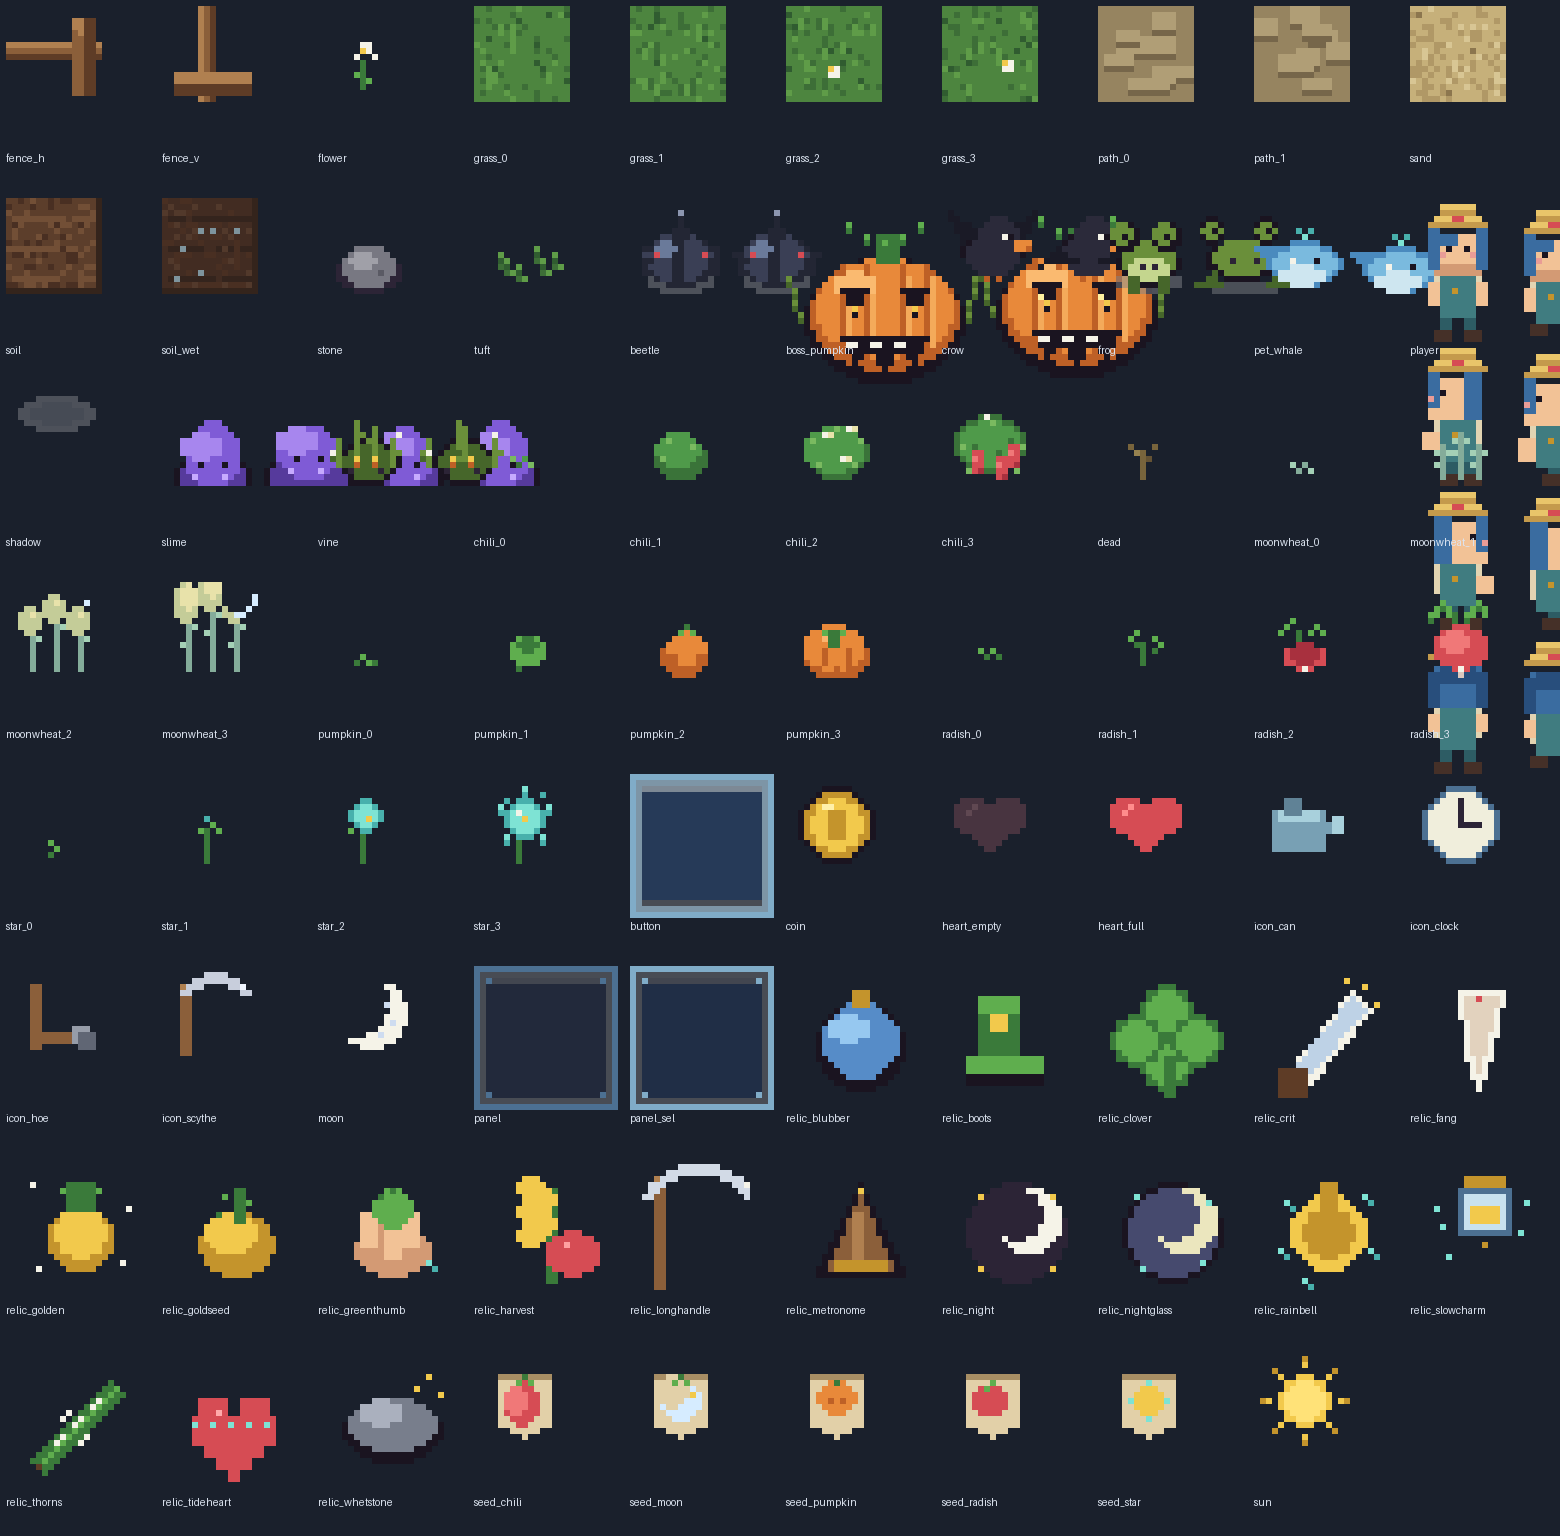
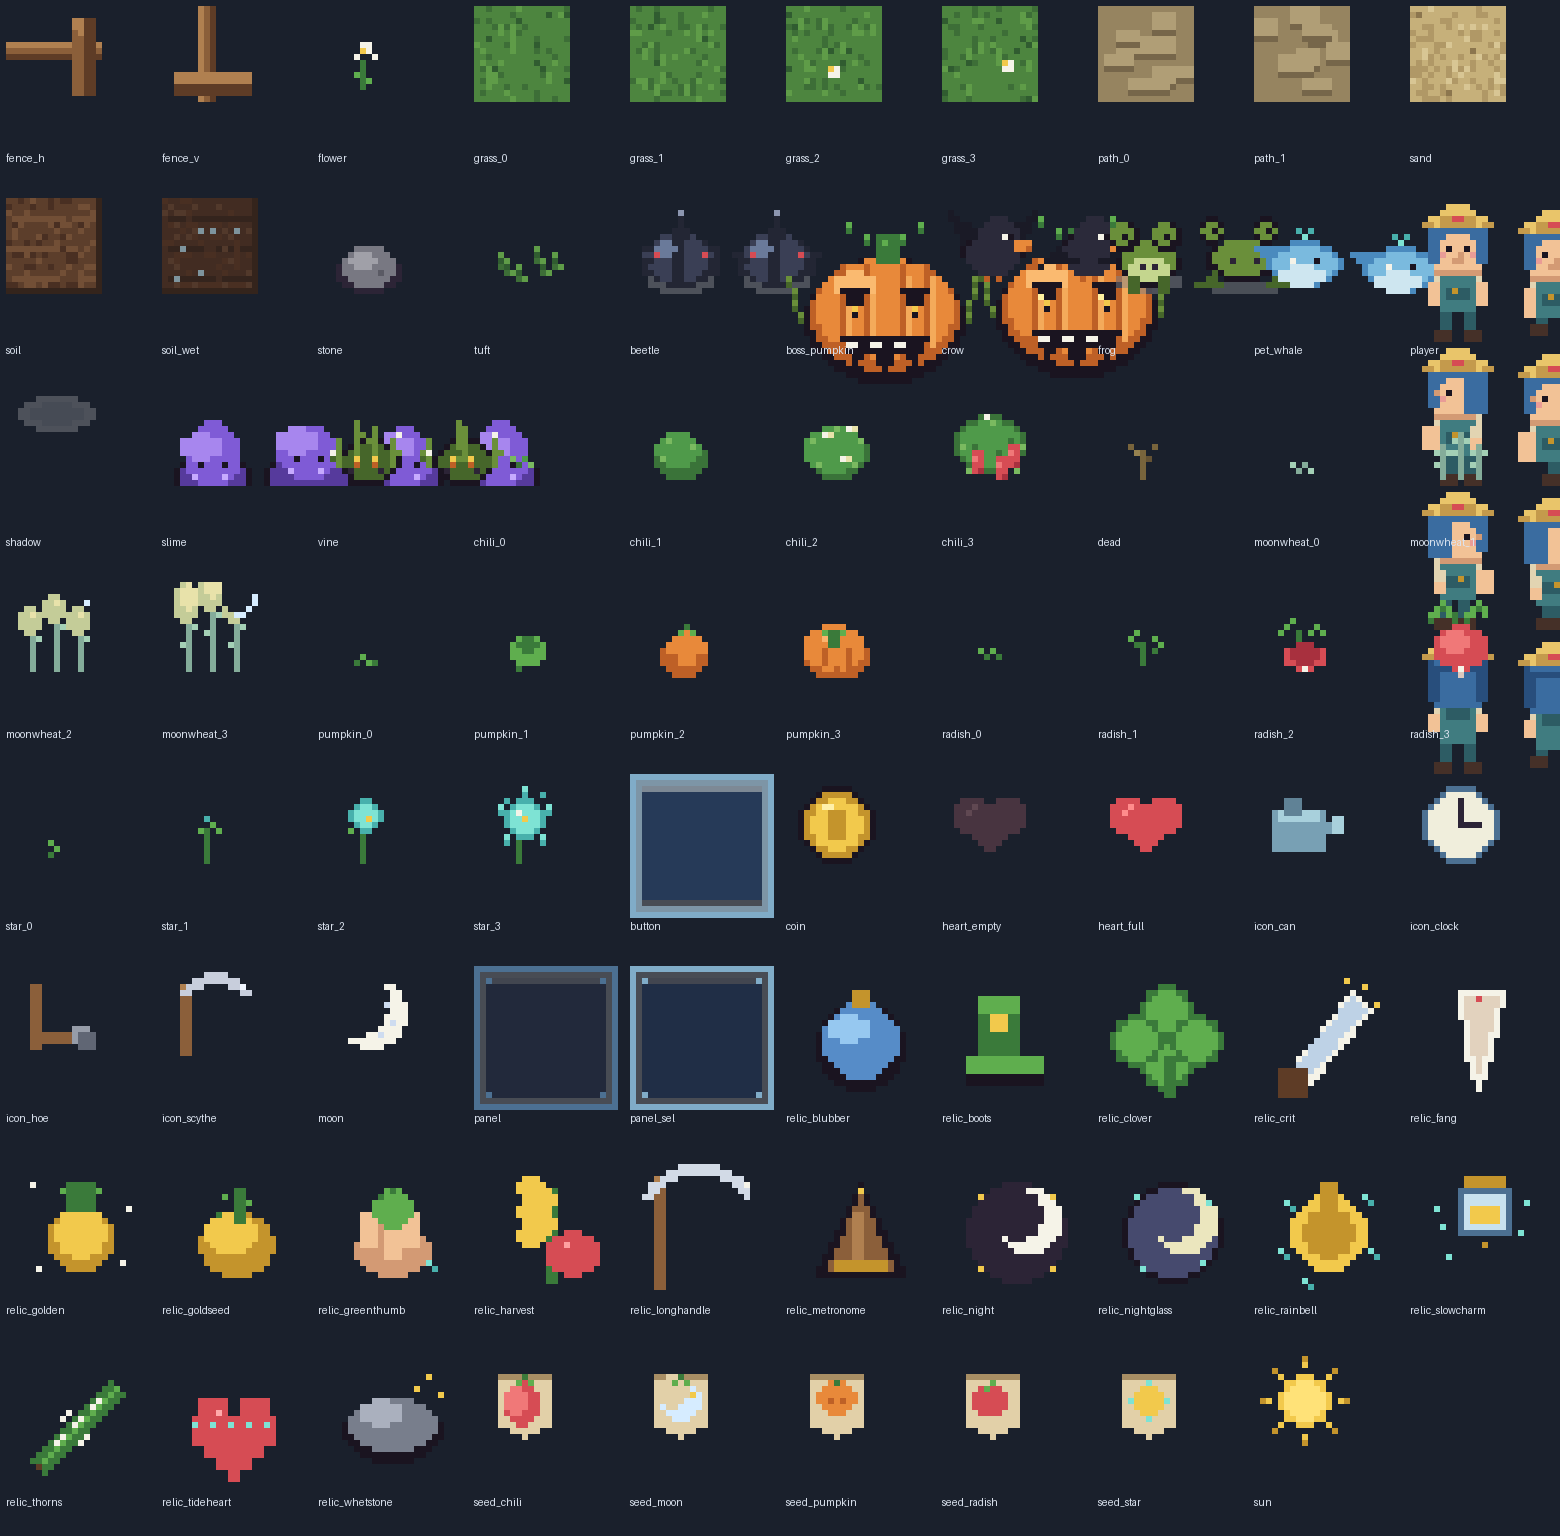
v2.4.1: redraw player, close hat/head gap

Changed region(s): [[0.8923, 0.125, 1.0, 0.5], [0.9231, 0.4375, 0.9538, 0.5], [0.8923, 0.4062, 0.9231, 0.4375]]

diff --git a/tools/gen_art.py b/tools/gen_art.py
@@ -267,12 +267,14 @@ def stone() -> Image.Image:
 # ---------------------------------------------------------------- player
 def player_frame(direction: int, step: int) -> Image.Image:
     """direction: 0 down, 1 left, 2 right, 3 up. step: 0..3."""
+    if direction == 2:
+        return player_frame(1, step).transpose(Image.FLIP_LEFT_RIGHT)
     im, d = new(16, 24)
     walk = step in (1, 3)
     swing = 1 if step == 1 else (-1 if step == 3 else 0)
     bob = 1 if walk else 0
-    # ground shadow is a separate sprite
-    # legs
+
+    # legs and boots (feet stay on the ground; only the torso bobs)
     if direction in (0, 3):
         left_dy = 1 if step == 1 else 0
         right_dy = 1 if step == 3 else 0
@@ -286,64 +288,82 @@ def player_frame(direction: int, step: int) -> Image.Image:
         box(d, 9 - lead, 19, 10 - lead, 22, C["overall2"])
         box(d, 5 + lead, 22, 7 + lead, 23, C["boot"])
         box(d, 9 - lead, 22, 11 - lead, 23, C["boot"])
-    # body
-    box(d, 5, 12 + bob, 10, 19 + bob, C["overall"])
-    box(d, 4, 13 + bob, 4, 17 + bob, C["shirt"])
-    box(d, 11, 13 + bob, 11, 17 + bob, C["shirt"])
-    # straps
+
+    # torso
+    body_top = 12 + bob
+    body_bottom = 18 + bob
+    box(d, 5, body_top, 10, body_bottom, C["overall"])
+    box(d, 4, body_top, 4, 14 + bob, C["shirt"])
+    box(d, 11, body_top, 11, 14 + bob, C["shirt"])
     if direction != 3:
-        px(d, 6, 12 + bob, C["overall2"])
-        px(d, 9, 12 + bob, C["overall2"])
+        px(d, 6, body_top, C["overall2"])
+        px(d, 9, body_top, C["overall2"])
+        box(d, 6, 15 + bob, 9, 16 + bob, C["overall2"])
         px(d, 7, 15 + bob, C["gold2"])
+    else:
+        box(d, 6, body_top, 9, 14 + bob, C["overall2"])
+
     # arms
     if direction == 0:
-        box(d, 3, 14 + bob, 4, 17 + bob, C["skin"])
-        box(d, 11, 14 + bob + swing, 12, 17 + bob + swing, C["skin"])
+        box(d, 3, 14 + bob, 4, 17 + bob + swing, C["skin"])
+        box(d, 11, 14 + bob, 12, 17 + bob - swing, C["skin"])
     elif direction == 1:
-        box(d, 2, 15 + bob, 4, 17 + bob + swing, C["skin"])
-    elif direction == 2:
-        box(d, 11, 15 + bob, 13, 17 + bob + swing, C["skin"])
+        box(d, 2, 14 + bob, 4, 17 + bob + swing, C["skin"])
+        box(d, 10, 14 + bob, 11, 16 + bob, C["shirt"])
+        box(d, 10, 16 + bob, 11, 17 + bob, C["skin"])
     else:
         box(d, 3, 14 + bob, 4, 16 + bob, C["skin"])
         box(d, 11, 14 + bob, 12, 16 + bob, C["skin"])
-    # head
-    head_y = 4 + bob
+
+    # head: hair row under the brim is deliberate; it closes the old gap
+    hair_top = 5 + bob
+    skin_top = 6 + bob
+    chin = 12 + bob
     if direction == 0:
-        box(d, 4, head_y + 2, 11, head_y + 8, C["skin"])
-        box(d, 4, head_y + 7, 11, head_y + 8, C["skin2"])
-        # hair fringe + side locks
-        box(d, 3, head_y + 1, 4, head_y + 7, C["hair"])
-        box(d, 11, head_y + 1, 12, head_y + 7, C["hair"])
-        box(d, 4, head_y + 2, 7, head_y + 3, C["hair"])
-        px(d, 6, head_y + 4, C["ink"])
-        px(d, 9, head_y + 4, C["ink"])
-        px(d, 5, head_y + 5, (233, 156, 150, 255))
-        px(d, 10, head_y + 5, (233, 156, 150, 255))
-    elif direction == 3:
-        box(d, 4, head_y + 2, 11, head_y + 8, C["hair"])
-        box(d, 3, head_y + 3, 4, head_y + 8, C["hair2"])
-        box(d, 11, head_y + 3, 12, head_y + 8, C["hair2"])
-        box(d, 5, head_y + 2, 10, head_y + 4, C["hair2"])
+        box(d, 4, skin_top, 11, chin, C["skin"])
+        box(d, 4, chin, 11, chin, C["skin2"])
+        box(d, 3, hair_top, 4, 10 + bob, C["hair"])
+        box(d, 11, hair_top, 12, 10 + bob, C["hair"])
+        box(d, 4, hair_top, 11, hair_top, C["hair"])
+        px(d, 4, skin_top, C["hair"])
+        px(d, 5, skin_top, C["hair"])
+        px(d, 10, skin_top, C["hair"])
+        px(d, 11, skin_top, C["hair"])
+        px(d, 6, 8 + bob, C["ink"])
+        px(d, 9, 8 + bob, C["ink"])
+        px(d, 5, 9 + bob, (233, 156, 150, 255))
+        px(d, 10, 9 + bob, (233, 156, 150, 255))
+        px(d, 8, 9 + bob, C["skin2"])
+        box(d, 7, 10 + bob, 8, 10 + bob, C["skin2"])
     elif direction == 1:
-        box(d, 3, head_y + 2, 10, head_y + 8, C["skin"])
-        box(d, 9, head_y + 1, 11, head_y + 8, C["hair"])
-        box(d, 3, head_y + 1, 4, head_y + 6, C["hair"])
-        px(d, 5, head_y + 4, C["ink"])
-        px(d, 3, head_y + 5, (233, 156, 150, 255))
+        box(d, 4, skin_top, 10, chin, C["skin"])
+        box(d, 4, chin, 10, chin, C["skin2"])
+        box(d, 9, hair_top, 12, 11 + bob, C["hair"])
+        box(d, 3, hair_top, 4, 10 + bob, C["hair"])
+        box(d, 4, hair_top, 11, hair_top, C["hair"])
+        px(d, 4, skin_top, C["hair"])
+        px(d, 5, skin_top, C["hair"])
+        px(d, 6, 8 + bob, C["ink"])
+        px(d, 5, 9 + bob, (233, 156, 150, 255))
+        px(d, 4, 8 + bob, C["skin2"])
     else:
-        box(d, 5, head_y + 2, 12, head_y + 8, C["skin"])
-        box(d, 4, head_y + 1, 6, head_y + 8, C["hair"])
-        box(d, 11, head_y + 1, 12, head_y + 6, C["hair"])
-        px(d, 10, head_y + 4, C["ink"])
-        px(d, 12, head_y + 5, (233, 156, 150, 255))
-    # straw hat
-    hy = head_y - 2
-    box(d, 3, hy + 2, 12, hy + 2, C["straw2"])
-    box(d, 4, hy + 1, 11, hy + 1, C["straw"])
-    box(d, 5, hy - 1, 10, hy + 1, C["straw"])
-    box(d, 5, hy, 10, hy, C["straw2"])
-    px(d, 7, hy + 1, C["red"])
-    px(d, 8, hy + 1, C["red"])
+        box(d, 4, skin_top, 11, chin, C["hair"])
+        box(d, 3, hair_top, 4, 11 + bob, C["hair2"])
+        box(d, 11, hair_top, 12, 11 + bob, C["hair2"])
+        box(d, 4, hair_top, 11, hair_top, C["hair"])
+        box(d, 5, skin_top, 10, skin_top, C["hair2"])
+
+    # straw hat: trapezoid crown + two-tier brim, sitting on the hair row
+    hat_base = 4 + bob
+    box(d, 2, hat_base, 13, hat_base, C["straw2"])
+    box(d, 3, hat_base - 1, 12, hat_base - 1, C["straw"])
+    box(d, 6, hat_base - 3, 9, hat_base - 3, C["straw"])
+    box(d, 5, hat_base - 2, 10, hat_base - 2, C["straw"])
+    box(d, 5, hat_base - 1, 10, hat_base - 1, C["straw2"])
+    px(d, 7, hat_base - 1, C["red"])
+    px(d, 8, hat_base - 1, C["red"])
+    px(d, 4, hat_base, C["straw"])
+    px(d, 11, hat_base, C["straw"])
     return im
 
 

diff --git a/README.md b/README.md
@@ -15,6 +15,7 @@
 ![鼠标交互](screenshots/shot_mouse.png)
 ![白天活动](screenshots/shot_daylife.png)
 ![深渊](screenshots/shot_abyss.png)
+![玩家重绘](docs/player_redraw.png)
 ![南瓜王](screenshots/shot_boss.png)
 
 ## 玩法
@@ -100,8 +101,8 @@
 
 到 [Releases](https://github.com/ElectLive/whale-fall-farm/releases) 下载最新版：
 
-- Windows：`WhaleFallFarm-v2.4.0-win64.zip` — 解压双击 `WhaleFallFarm.exe`，绿色免安装，存档在 exe 旁边。
-- Android：`WhaleFallFarm-v2.4.0-android.apk` — Android 7.0+ / arm64，允许「安装未知来源应用」即可安装。APK 使用调试证书签名，适合直接安装试玩，不适合上架应用商店。
+- Windows：`WhaleFallFarm-v2.4.1-win64.zip` — 解压双击 `WhaleFallFarm.exe`，绿色免安装，存档在 exe 旁边。
+- Android：`WhaleFallFarm-v2.4.1-android.apk` — Android 7.0+ / arm64，允许「安装未知来源应用」即可安装。APK 使用调试证书签名，适合直接安装试玩，不适合上架应用商店。
 
 ## 从源码运行
 
@@ -213,6 +214,7 @@ docs/
 - **v2.2.0** — 左键攻击/收获，右键移动/松土/播种/浇水；白天新增偷菜海鸥、贝壳/海星采集、R/「结束白天」提前收工（作物按剩余时间生长）。
 - **v2.3.0** — 三档难度（默认困难）：困难模式敌人生命/速度/数量全面上调、刷怪更快、海鸥更频繁、初始 5 血 12 金、无敌帧更短；标题界面可切。
 - **v2.4.0** — 第四档「深渊」：4 血 8 金、敌人 ×1.55 生命/×1.45 速度/×1.80 数量；史莱姆冲锋、缠根怪远程棘刺、深渊夜晚双波；Boss 66%/33% 血量环形弹幕与更快射速。
+- **v2.4.1** — 玩家贴图重绘：帽子/头发/头部重新衔接，填掉帽檐和头之间的透明空隙；四方向四帧全部重画，加刘海、鼻嘴、帽带和梯形帽冠。
 
 ## 20 次更新记录
 

diff --git a/CHANGELOG.md b/CHANGELOG.md
@@ -3,6 +3,19 @@
 All notable changes to Whale Fall Farm are documented here.
 Format follows [Keep a Changelog](https://keepachangelog.com/); versions use semver.
 
+## v2.4.1 — 2026-10-30
+
+### Fixed
+
+- Player sprite had a transparent 1px row between the straw hat brim and the head in every direction. The hat now sits directly on a full hair row; all 16 frames are gap-free.
+
+### Changed
+
+- Redrew the 16×24 player across 4 directions × 4 walk frames: trapezoid hat crown, two-tier brim, red hat band, side bangs, nose/mouth, cleaner overalls and boots.
+- Right-facing frames are mirrored from the left to keep the profile consistent.
+- Added `docs/player_redraw.png` four-direction preview.
+- Pixel check: zero transparent pixels in the hat/head seam for all 16 frames.
+
 ## v2.4.0 — 2026-10-30
 
 ### Added
@@ -233,7 +246,8 @@ Format follows [Keep a Changelog](https://keepachangelog.com/); versions use sem
 - Fully procedural pixel art (Pillow), chiptune music and SFX (numpy), Cubic 11 font.
 - Headless self-test (`--selftest`), real-time smoke test (`--smoke`), screenshot tooling.
 
-[Unreleased]: https://github.com/ElectLive/whale-fall-farm/compare/v2.4.0...main
+[Unreleased]: https://github.com/ElectLive/whale-fall-farm/compare/v2.4.1...main
+[v2.4.1]: https://github.com/ElectLive/whale-fall-farm/releases/tag/v2.4.1
 [v2.4.0]: https://github.com/ElectLive/whale-fall-farm/releases/tag/v2.4.0
 [v2.3.0]: https://github.com/ElectLive/whale-fall-farm/releases/tag/v2.3.0
 [v2.2.0]: https://github.com/ElectLive/whale-fall-farm/releases/tag/v2.2.0

diff --git a/docs/design.md b/docs/design.md
@@ -135,6 +135,13 @@
 - **Boss 多阶段**：66% / 33% 血量时召唤 + 8 / 12 发环形弹幕，射击间隔 3.2 → 2.6 → 1.4s。
 - 这些机制都复用现有种弹/召唤/移动框架，不新增资源包；`--shot=abyss` 可复现展示。
 
+### 玩家美术
+
+- 16×24、4 方向 ×4 帧；帽檐下固定铺一行头发（x4–11），帽子直接压在头发上，避免帽/头之间出现透明缝。
+- 帽子：梯形帽冠（y1 x6–9、y2 x5–10）、深色帽带 + 红带扣、双层帽檐（y4 x2–13、y3 x3–12）。
+- 脸部：左右刘海、双眼、腮红、鼻子和嘴；侧向帧由左侧镜像，保证 4 方向比例一致。
+- 走路时躯干/头/帽一起 bob 1px，脚固定在地面；`tools/gen_art.py` 的 `player_frame` 为唯一来源。
+
 ### 鼠标交互
 
 - **左键 = 攻击/收获**：点成熟作物会走到格子旁收获；点其他位置朝鼠标挥镰；按住连续攻击。

diff --git a/docs/devlog.md b/docs/devlog.md
@@ -1,5 +1,20 @@
 # 开发日志
 
+## v2.4.1 — 2026-10-30
+
+### 内容
+
+- **重画玩家**：16×24、4 方向 ×4 帧全部重画；帽子改为梯形帽冠 + 双层帽檐 + 红帽带，头部加刘海/鼻嘴。
+- **修复空隙**：原图帽檐和头顶之间有一整行透明像素；新图在帽檐下铺满头发行，帽子直接落在头发上。
+- 右侧帧由左侧镜像，保证侧脸一致；`player.png` / `art_preview.png` / `docs/player_redraw.png` 同步更新。
+- 像素自检：16 帧在帽/头接缝区域（x4–11, y4–6）透明像素数为 0。
+
+### 验证记录
+
+- `--selftest`：**91/91 PASS**（美术更换不影响逻辑）。
+- `--shot=day` 实机画面检查玩家侧身像；四方向预览见 `docs/player_redraw.png`。
+- 版本 2.4.1，Android versionCode 13。
+
 ## v2.4.0 — 2026-10-30
 
 ### 内容

diff --git a/docs/updates20.md b/docs/updates20.md
@@ -52,3 +52,4 @@
 - **v2.2.0（2026-10-30）**：左键攻击/收获、右键移动/放置；白天偷菜海鸥、贝壳/海星采集、R/「结束白天」提前收工（作物按剩余时间生长）。
 - **v2.3.0（2026-10-30）**：三档难度（默认困难）；敌人生命/速度/数量、刷怪间隔、海鸥频率、初始血量金币全面上调；HUD/标题显示难度。
 - **v2.4.0（2026-10-30）**：第四档深渊（4 血 8 金、×1.55 生命/×1.45 速度/×1.80 数量）；史莱姆冲锋、缠根怪远程棘刺、深渊双波、Boss 环形弹幕多阶段。
+- **v2.4.1（2026-10-30）**：玩家 16 帧重绘，修复帽檐与头部之间的透明空隙；新增刘海、鼻嘴、梯形帽冠和红帽带。
